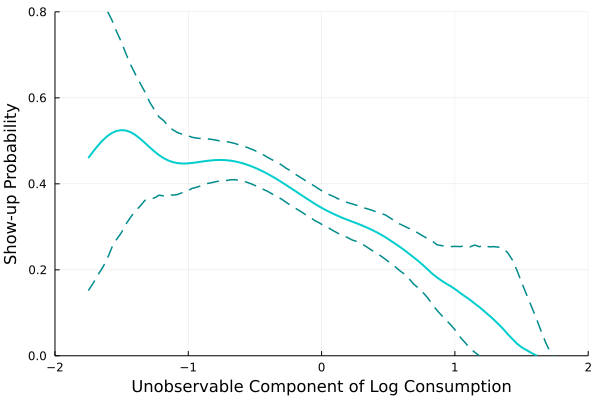
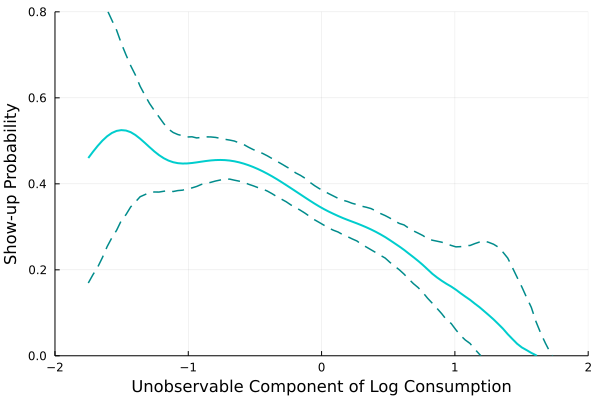
Most recent run, things seemed to have changed, so committing any minor updates

diff --git a/output/tables/Extension.tex b/output/tables/Extension.tex
@@ -1,8 +1,8 @@
 \begin{tabular}{lcccccc}\toprule& (Experimental) & \multicolumn{5}{c}{(See Models Above)} \\ \cmidrule(lr){3-7} 
  & (1) & (2) & (3) & (4) & (5) & (6)\\\midrule
  & \multicolumn{6}{c}{\centering A. Logistic Regressions}\\\cmidrule(lr){2-7} 
-Close subtreatment & 1.509 & -1.364 & -3.833 & -4.928 & -2.093 & -1.742 \\ & (2.845) & (0.913) & (1.389) & (1.640) & (0.917) & (0.855) \\Log Consumption & -1.423 & -1.630 & -3.272 & -4.058 & -2.207 & -0.103 \\ & (0.135) & (0.044) & (0.072) & (0.085) & (0.044) & (0.051) \\Close $\times$ log cons. & -0.105 & 0.105 & 0.296 & 0.380 & 0.162 & 0.136 \\ & (0.217) & (0.069) & (0.106) & (0.126) & (0.069) & (0.065) \\Observations & 1971 & 59153& 59153& 59153& 59153& 59153\\\textit{p-value} & & 0.512 & 0.521 & 0.525 & 0.515 & 0.514 \\\midrule
+Close subtreatment & 1.509 & -1.364 & -3.833 & -4.928 & -2.093 & -1.742 \\ & (2.788) & (0.899) & (1.294) & (1.538) & (0.899) & (0.901) \\Log Consumption & -1.423 & -1.630 & -3.272 & -4.058 & -2.207 & -0.103 \\ & (0.143) & (0.048) & (0.073) & (0.086) & (0.048) & (0.049) \\Close $\times$ log cons. & -0.105 & 0.105 & 0.296 & 0.380 & 0.162 & 0.136 \\ & (0.214) & (0.068) & (0.099) & (0.118) & (0.068) & (0.068) \\Observations & 1971 & 985497& 985497& 985497& 985497& 985497\\\textit{p-value} & & 0.512 & 0.522 & 0.525 & 0.515 & 0.514 \\\midrule
  & \multicolumn{6}{c}{\centering B. Show Up Rates}\\\cmidrule(lr){2-7} 
 Above poverty line, far & 34.09 & 34.55 & 38.19 & 35.50 & 42.05 & 45.89 \\Above poverty line, close & 38.98 & 37.37 & 42.56 & 39.93 & 45.75 & 47.15 \\Below poverty line, far & 53.23 & 71.94 & 92.62 & 95.42 & 87.79 & 46.53 \\Below poverty line, close & 59.32 & 65.52 & 88.66 & 90.87 & 84.18 & 43.84 \\\midrule
  & \multicolumn{6}{c}{\centering C. Show Up Rate Ratios}\\\cmidrule(lr){2-7} 
-Poor to rich ratio, far & 1.561 & 2.082 & 2.425 & 2.688 & 2.088 & 1.014 \\ & (0.256) & (0.073) & (0.100) & (0.116) & (0.073) & (0.059) \\Poor to rich ratio, close & 1.522 & 1.753 & 2.083 & 2.275 & 1.840 & 0.930 \\ & (0.175) & (0.079) & (0.110) & (0.131) & (0.079) & (0.052) \\Difference of ratios & 0.040 & 0.329 & 0.342 & 0.412 & 0.248 & 0.084 \\ & (0.265) & (0.096) & (0.132) & (0.157) & (0.096) & (0.083) \\\bottomrule\end{tabular}
+Poor to rich ratio, far & 1.561 & 2.082 & 2.425 & 2.688 & 2.088 & 1.014 \\ & (0.210) & (0.080) & (0.114) & (0.135) & (0.081) & (0.052) \\Poor to rich ratio, close & 1.522 & 1.753 & 2.083 & 2.275 & 1.840 & 0.930 \\ & (0.180) & (0.072) & (0.098) & (0.116) & (0.072) & (0.053) \\Difference of ratios & 0.040 & 0.329 & 0.342 & 0.412 & 0.248 & 0.084 \\ & (0.280) & (0.104) & (0.145) & (0.173) & (0.104) & (0.073) \\\bottomrule\end{tabular}
